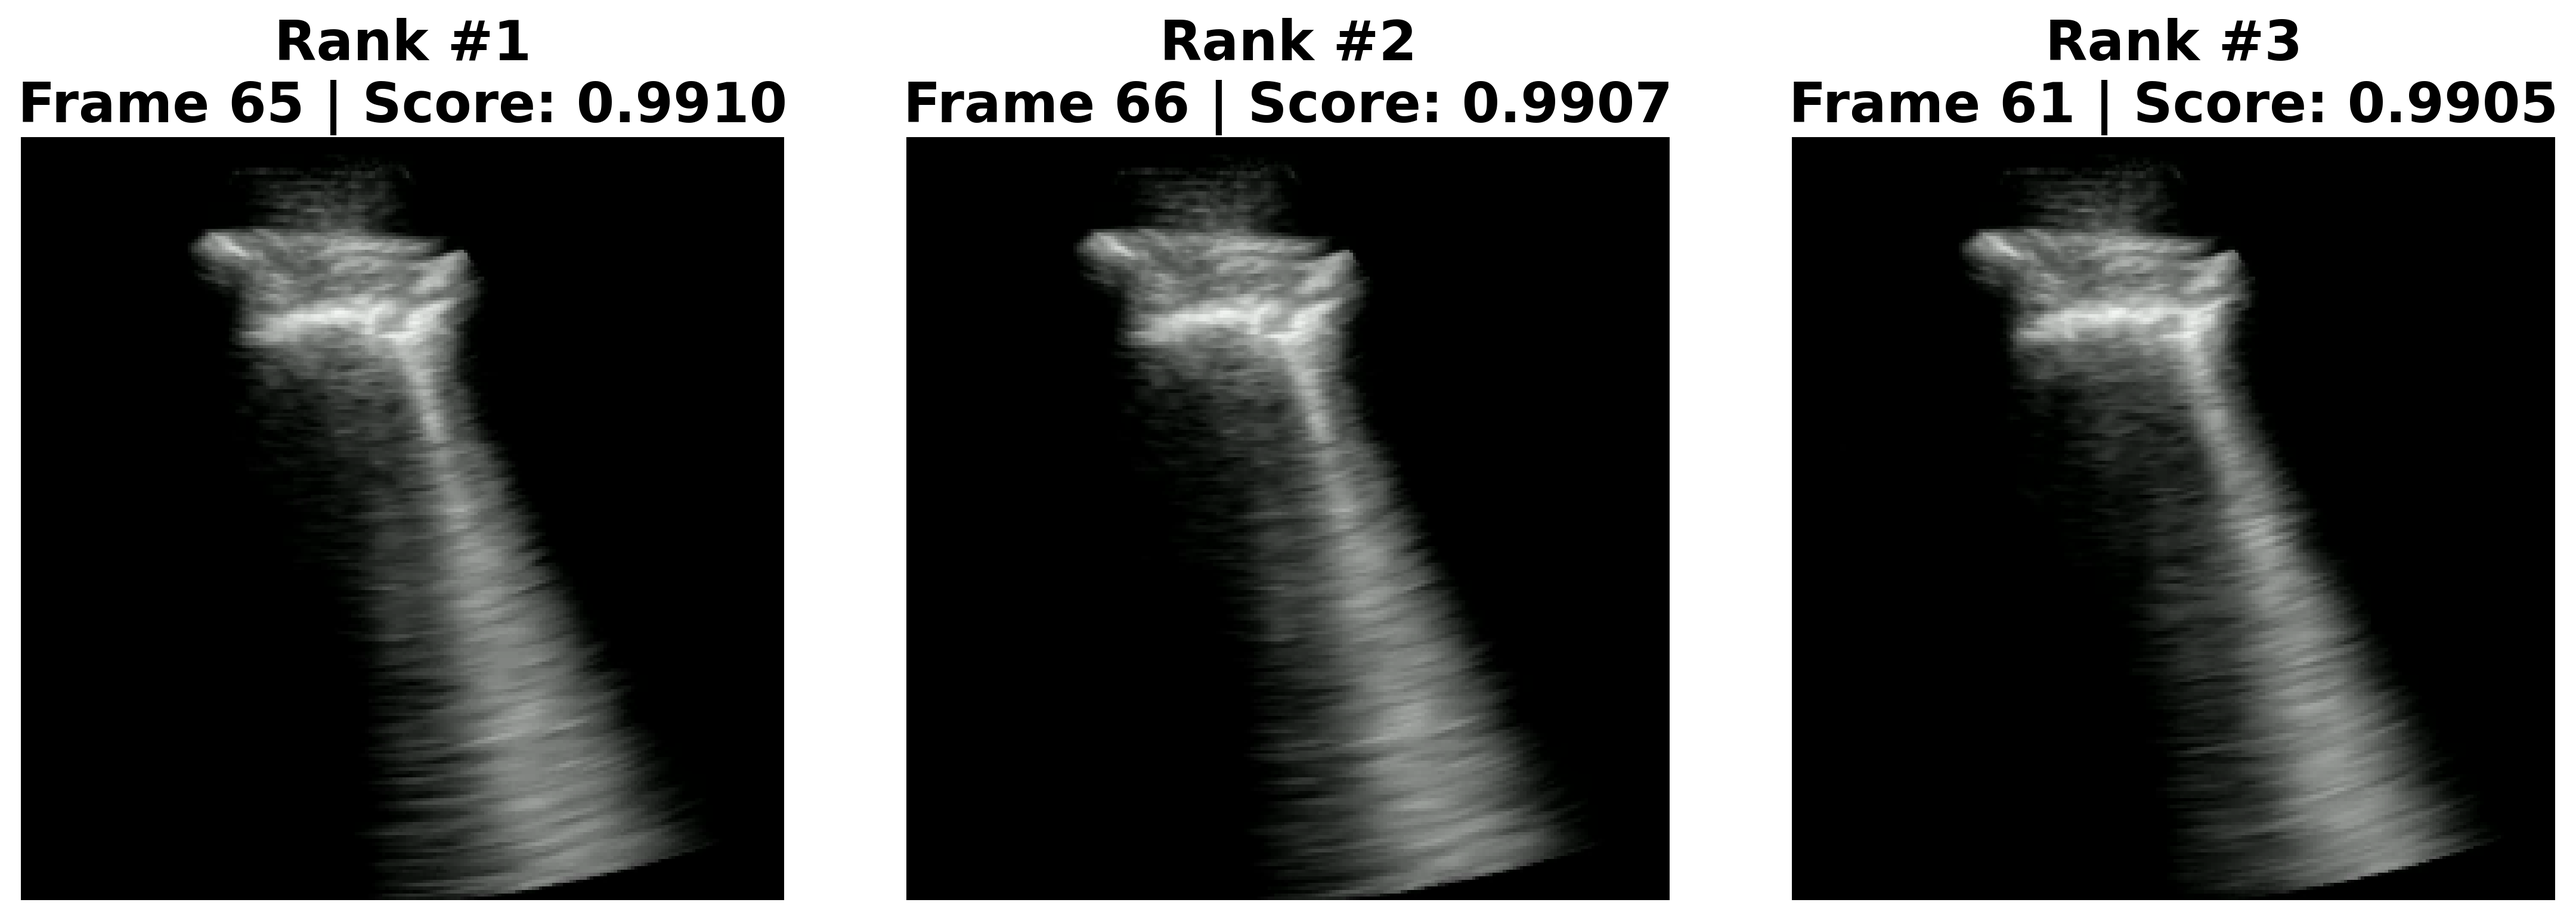
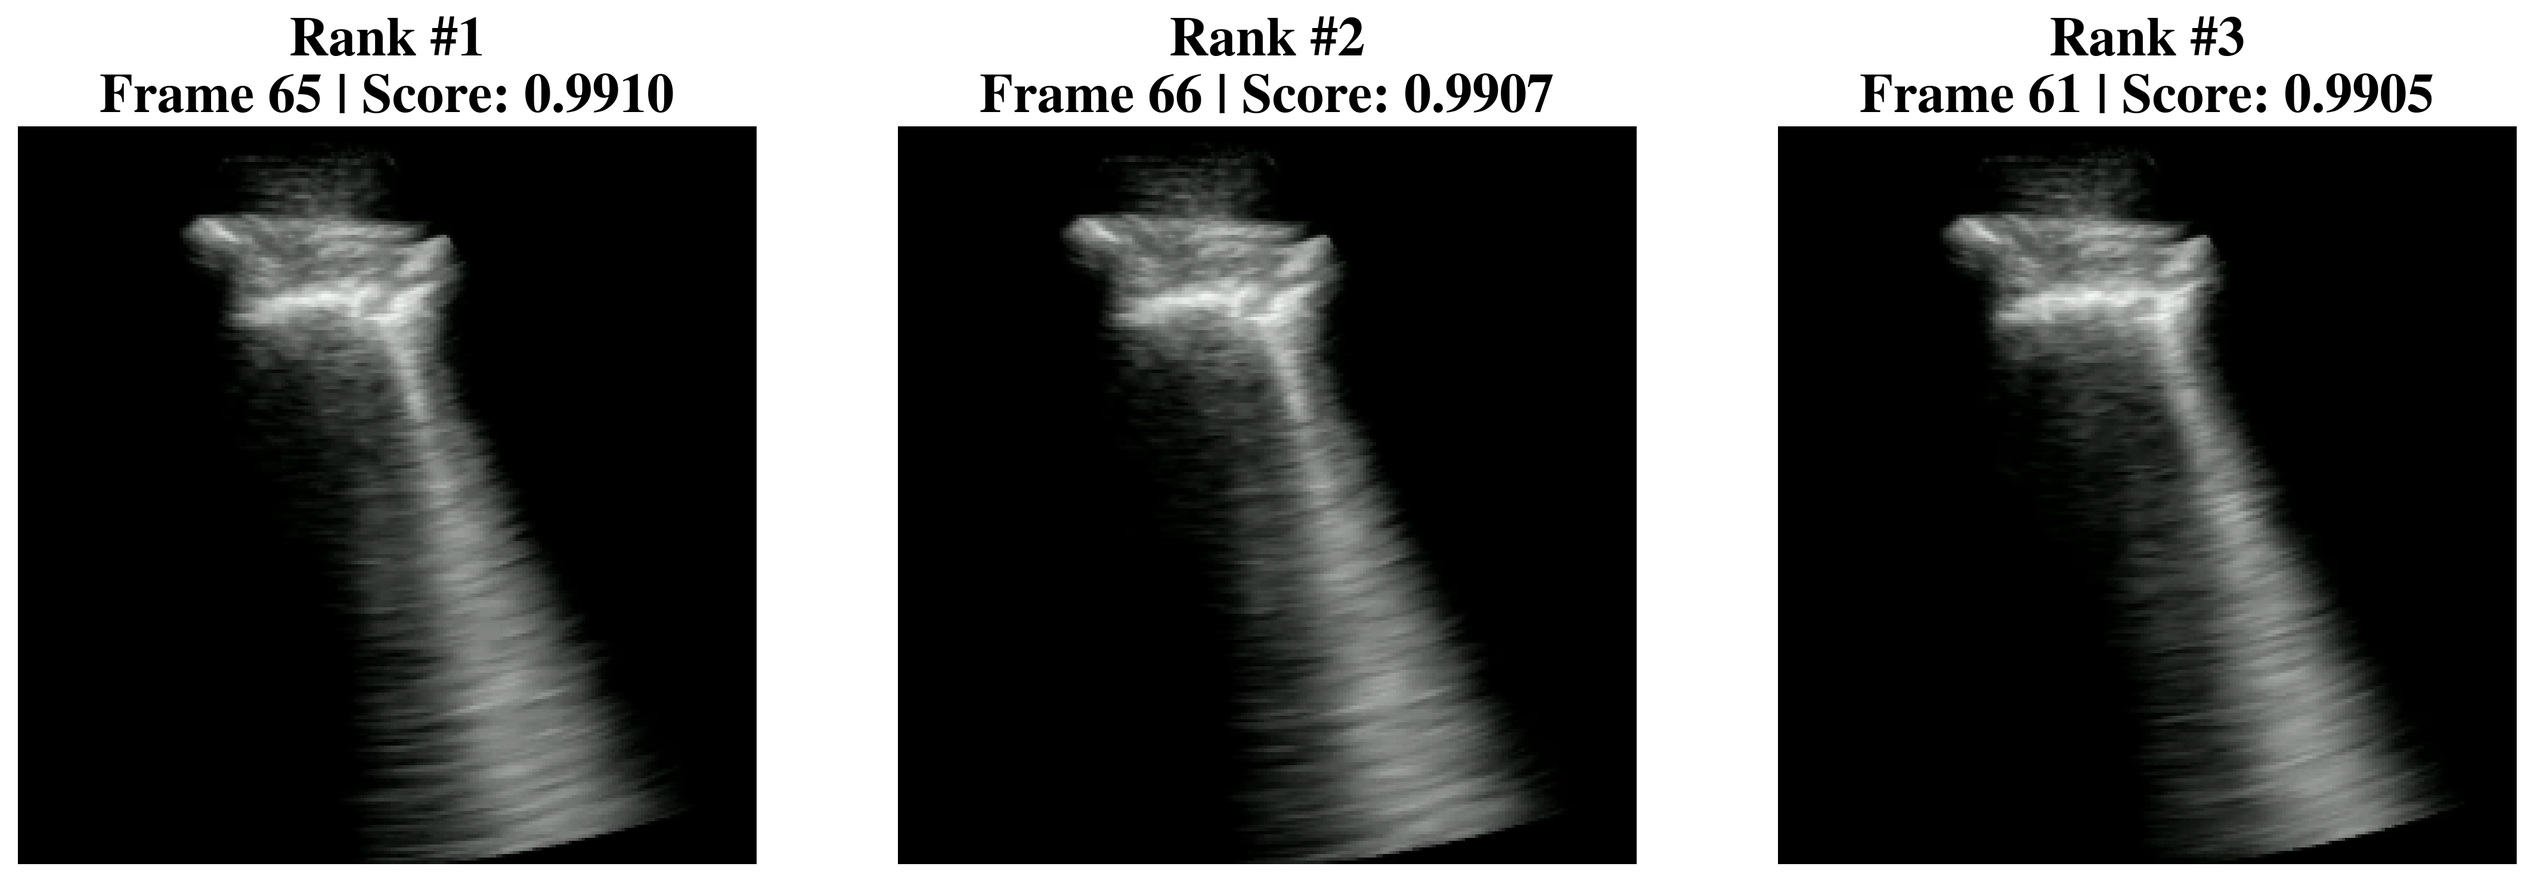
Updated font style

diff --git a/visualize_attention_minimal.py b/visualize_attention_minimal.py
@@ -28,6 +28,41 @@ sys.path.insert(0, ".")
 from config import load_config
 from NetworkArchitecture.ablation_models import create_ablation_model
 
+def setup_publication_style(font_size=16, font_family='STIXGeneral'):
+    """Set up publication-quality matplotlib styling."""
+    plt.style.use('default')  # Reset to default first
+    
+    # Font and text settings
+    plt.rcParams['font.family'] = font_family
+    plt.rcParams['font.size'] = font_size
+    plt.rcParams['axes.labelsize'] = font_size + 2
+    plt.rcParams['axes.titlesize'] = font_size + 4
+    plt.rcParams['xtick.labelsize'] = font_size
+    plt.rcParams['ytick.labelsize'] = font_size
+    plt.rcParams['legend.fontsize'] = font_size
+    plt.rcParams['figure.titlesize'] = font_size + 6
+    
+    # Weight settings
+    plt.rcParams['axes.labelweight'] = 'bold'
+    plt.rcParams['axes.titleweight'] = 'bold'
+    plt.rcParams['figure.titleweight'] = 'bold'
+    
+    # Colors
+    plt.rcParams['axes.labelcolor'] = 'black'
+    plt.rcParams['axes.titlecolor'] = 'black'
+    plt.rcParams['xtick.color'] = 'black'
+    plt.rcParams['ytick.color'] = 'black'
+    
+    # Grid and spines
+    plt.rcParams['axes.grid'] = True
+    plt.rcParams['grid.alpha'] = 0.3
+    plt.rcParams['axes.axisbelow'] = True
+    
+    # Figure settings
+    plt.rcParams['figure.dpi'] = 300
+    plt.rcParams['savefig.dpi'] = 300
+    plt.rcParams['savefig.bbox'] = 'tight'
+    plt.rcParams['savefig.transparent'] = False
 
 def load_and_preprocess_video(video_path, target_size=(224, 224), max_frames=None):
     """Load video and preprocess for model input."""
@@ -100,6 +135,7 @@ def visualize_top_3_frames(frames, indices, scores, save_path):
     # Create output directory if needed
     os.makedirs(os.path.dirname(save_path), exist_ok=True)
     
+    setup_publication_style()
     fig, axes = plt.subplots(1, 3, figsize=(15, 5))
     
     for i, (idx, score) in enumerate(zip(indices, scores)):
